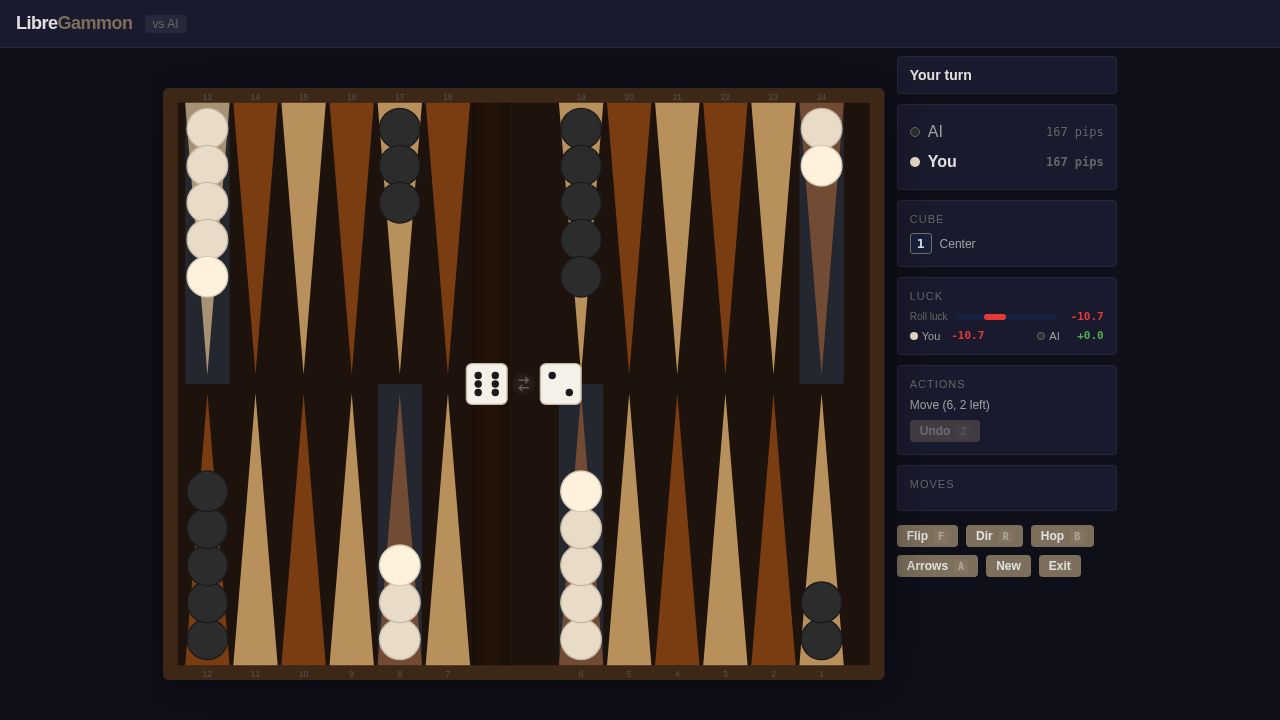
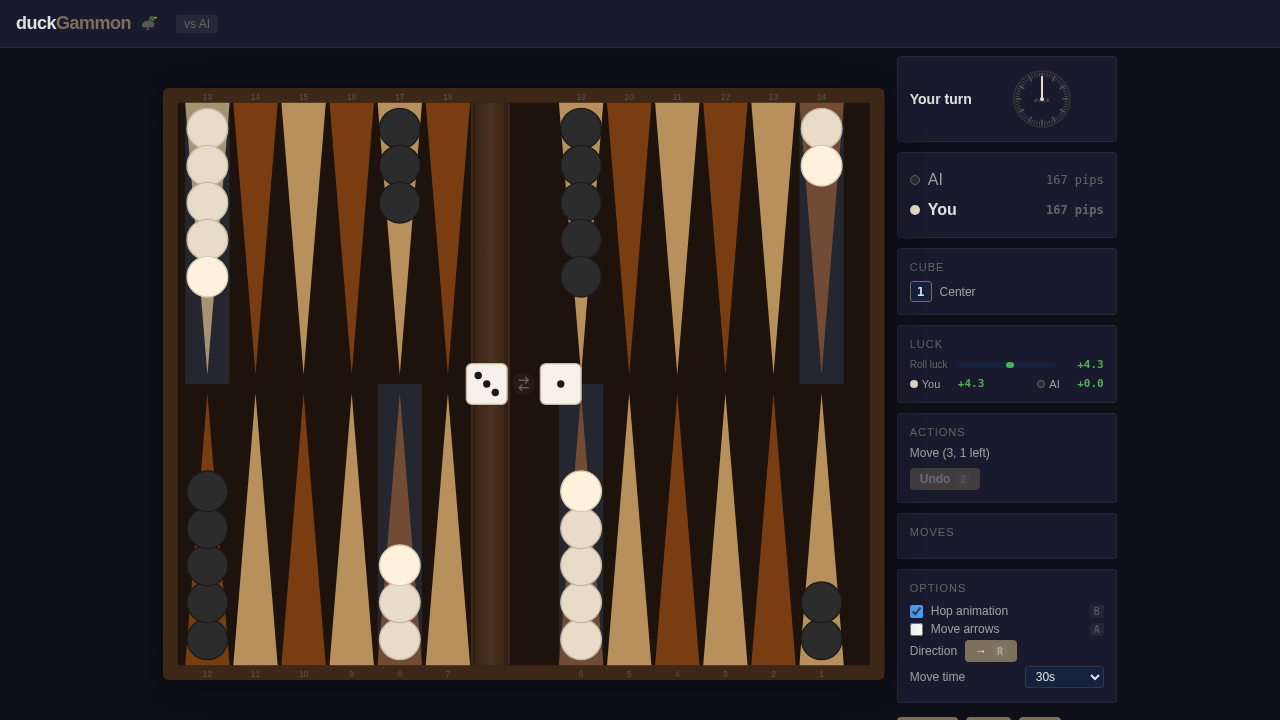
Add move time control with analogue Countdown clock
- Per-move countdown timer (default 30s, configurable 15s/30s/60s/untimed)
- UK Countdown-style analogue SVG clock in the turn indicator
- 60 tick marks, single sweeping hand, "duck" text in center
- Ticks and hand turn red when <=10s remaining
- Auto-confirms turn when time expires (with timeout buzz sound)
- Time control selector in Options panel, persisted in localStorage
- Clock only shows during human player's moving phase

diff --git a/src/ui/game/GameView.tsx b/src/ui/game/GameView.tsx
@@ -15,7 +15,8 @@ import Jail from '../board/Jail';
 import MoveAnimation, { triggerAnimation, triggerBunnyHop, clearAnimations, HOP_DURATION, ANIM_DURATION } from '../board/MoveAnimation';
 import OpponentArrows from '../board/OpponentArrows';
 import LuckMeter, { type LuckEntry } from '../board/LuckMeter';
-import { playDiceRoll, playCapture, playJailEscape, playVictory, playDefeat } from '../audio/sounds';
+import CountdownClock from '../board/CountdownClock';
+import { playDiceRoll, playCapture, playJailEscape, playVictory, playDefeat, playTimeout } from '../audio/sounds';
 
 interface TurnRecord {
   ply: number;
@@ -63,14 +64,22 @@ const GameView: Component<{ onExit: () => void; mode: GameMode; devPreset?: DevP
   const [arrowFading, setArrowFading] = createSignal(false);
   const [arrowsEnabled, setArrowsEnabled] = createSignal(false);
   const [historyIndex, setHistoryIndex] = createSignal<number | null>(null);
+  const [timePerMove, setTimePerMove] = createSignal<number | null>(
+    typeof localStorage !== 'undefined' ? (() => {
+      const v = localStorage.getItem('bg-time');
+      return v === 'none' ? null : Number(v) || 30;
+    })() : 30
+  );
+  const [timeRemaining, setTimeRemaining] = createSignal<number | null>(null);
   let initialBoard = [...initState.board];
   let initialWhiteOff = initState.whiteOff;
   let initialBlackOff = initState.blackOff;
 
-  // Persist direction
+  // Persist settings
   createEffect(() => {
     if (typeof localStorage !== 'undefined') {
       localStorage.setItem('bg-direction', direction());
+      localStorage.setItem('bg-time', timePerMove() === null ? 'none' : String(timePerMove()));
     }
   });
 
@@ -726,6 +735,36 @@ const GameView: Component<{ onExit: () => void; mode: GameMode; devPreset?: DevP
     }
   });
 
+  // Move timer — countdown during 'moving' phase
+  createEffect(() => {
+    const s = currentState();
+    const limit = timePerMove();
+    if (s.phase === 'moving' && !isAiTurn() && !isReviewing() && limit !== null) {
+      setTimeRemaining(limit);
+      const interval = setInterval(() => {
+        setTimeRemaining(prev => {
+          if (prev === null || prev <= 0) return 0;
+          return prev - 1;
+        });
+      }, 1000);
+      onCleanup(() => clearInterval(interval));
+    } else {
+      setTimeRemaining(null);
+    }
+  });
+
+  // Timeout — auto-confirm when time expires
+  createEffect(() => {
+    if (timeRemaining() === 0 && currentState().phase === 'moving' && !isAiTurn()) {
+      playTimeout();
+      const s = currentState();
+      const newState = confirmTurn(s);
+      recordTurn(s, newState);
+      setState(newState);
+      setSelectedPoint(null);
+    }
+  });
+
   // Scroll highlighted move into view
   createEffect(() => {
     const idx = historyIndex();
@@ -815,6 +854,9 @@ const GameView: Component<{ onExit: () => void; mode: GameMode; devPreset?: DevP
               <span class="dot" />
               <span class="dot" />
             </div>
+          </Show>
+          <Show when={timeRemaining() !== null}>
+            <CountdownClock remaining={timeRemaining()!} total={timePerMove()!} />
           </Show>
         </div>
 
@@ -925,6 +967,21 @@ const GameView: Component<{ onExit: () => void; mode: GameMode; devPreset?: DevP
             <button class="btn btn-small" onClick={() => setDirection(d => d === 'right' ? 'left' : 'right')}>
               {direction() === 'right' ? '\u2192' : '\u2190'} <span class="shortcut-hint">R</span>
             </button>
+          </label>
+          <label class="option-row">
+            <span>Move time</span>
+            <select
+              value={timePerMove() === null ? 'none' : String(timePerMove())}
+              onChange={(e) => {
+                const v = e.currentTarget.value;
+                setTimePerMove(v === 'none' ? null : Number(v));
+              }}
+            >
+              <option value="15">15s</option>
+              <option value="30">30s</option>
+              <option value="60">60s</option>
+              <option value="none">Untimed</option>
+            </select>
           </label>
         </div>
 

diff --git a/src/ui/board/CountdownClock.tsx b/src/ui/board/CountdownClock.tsx
@@ -1,0 +1,106 @@
+import { Component, For } from 'solid-js';
+
+interface CountdownClockProps {
+  remaining: number;
+  total: number;
+}
+
+const SIZE = 64;
+const CX = SIZE / 2;
+const CY = SIZE / 2;
+const R = 26;
+
+const CountdownClock: Component<CountdownClockProps> = (props) => {
+  const elapsed = () => props.total - props.remaining;
+  const angle = () => (elapsed() / props.total) * 360;
+  const danger = () => props.remaining <= 10;
+
+  // Hand endpoint
+  const handAngle = () => (angle() - 90) * (Math.PI / 180);
+  const handX = () => CX + Math.cos(handAngle()) * (R - 4);
+  const handY = () => CY + Math.sin(handAngle()) * (R - 4);
+
+  // Danger arc (swept region when <=10s left)
+  const dangerStartAngle = () => {
+    const dangerStart = Math.max(0, props.total - 10);
+    return ((dangerStart / props.total) * 360 - 90) * (Math.PI / 180);
+  };
+  const dangerEndAngle = () => (angle() - 90) * (Math.PI / 180);
+
+  function arcPath(startA: number, endA: number, r: number): string {
+    const x1 = CX + Math.cos(startA) * r;
+    const y1 = CY + Math.sin(startA) * r;
+    const x2 = CX + Math.cos(endA) * r;
+    const y2 = CY + Math.sin(endA) * r;
+    const large = (endA - startA) > Math.PI ? 1 : 0;
+    return `M ${x1} ${y1} A ${r} ${r} 0 ${large} 1 ${x2} ${y2}`;
+  }
+
+  return (
+    <svg viewBox={`0 0 ${SIZE} ${SIZE}`} width={SIZE} height={SIZE} style={{ display: 'block', margin: '0 auto' }}>
+      {/* Dial background */}
+      <circle cx={CX} cy={CY} r={R + 2} fill="#1a1a2e" stroke="#333" stroke-width={1.5} />
+
+      {/* Tick marks */}
+      <For each={Array.from({ length: 60 }, (_, i) => i)}>
+        {(i) => {
+          const a = ((i / 60) * 360 - 90) * (Math.PI / 180);
+          const tickSec = (i / 60) * props.total;
+          const isInDanger = danger() && tickSec >= (props.total - 10) && tickSec <= elapsed();
+          const isMajor = i % 5 === 0;
+          const outerR = R;
+          const innerR = isMajor ? R - 5 : R - 3;
+          return (
+            <line
+              x1={CX + Math.cos(a) * innerR}
+              y1={CY + Math.sin(a) * innerR}
+              x2={CX + Math.cos(a) * outerR}
+              y2={CY + Math.sin(a) * outerR}
+              stroke={isInDanger ? '#e53935' : '#555'}
+              stroke-width={isMajor ? 1.5 : 0.8}
+              stroke-linecap="round"
+            />
+          );
+        }}
+      </For>
+
+      {/* Danger arc */}
+      {danger() && elapsed() > (props.total - 10) && (
+        <path
+          d={arcPath(dangerStartAngle(), dangerEndAngle(), R - 1)}
+          fill="none"
+          stroke="#e53935"
+          stroke-width={3}
+          stroke-linecap="round"
+          opacity={0.4}
+        />
+      )}
+
+      {/* "duck" text */}
+      <text
+        x={CX} y={CY + 1}
+        text-anchor="middle"
+        dominant-baseline="middle"
+        font-size="6"
+        font-weight="600"
+        fill="#555"
+        style={{ "pointer-events": "none", "letter-spacing": "0.5px" }}
+      >duck</text>
+
+      {/* Hand */}
+      <line
+        x1={CX} y1={CY}
+        x2={handX()} y2={handY()}
+        stroke={danger() ? '#e53935' : '#e8dcc8'}
+        stroke-width={2}
+        stroke-linecap="round"
+        style={{ transition: 'x2 1s linear, y2 1s linear' }}
+      />
+
+      {/* Center dot */}
+      <circle cx={CX} cy={CY} r={2} fill={danger() ? '#e53935' : '#e8dcc8'} />
+    </svg>
+  );
+};
+
+export default CountdownClock;

diff --git a/src/ui/styles/board.css b/src/ui/styles/board.css
@@ -864,6 +864,17 @@
   margin-left: auto;
 }
 
+.option-row select {
+  background: var(--bg-tertiary);
+  color: var(--text-primary);
+  border: 1px solid rgba(255,255,255,0.1);
+  border-radius: 3px;
+  padding: 2px 6px;
+  font-size: 12px;
+  margin-left: auto;
+  cursor: pointer;
+}
+
 /* ─── Active move in history ─── */
 .move-entry.active {
   background: rgba(74, 158, 255, 0.12);

diff --git a/src/ui/audio/sounds.ts b/src/ui/audio/sounds.ts
@@ -66,6 +66,12 @@ export function playDefeat() {
   setTimeout(() => tone(294, 0.5, 0.06), 400); // D4
 }
 
+/** Time expired buzz */
+export function playTimeout() {
+  tone(150, 0.3, 0.15);
+  setTimeout(() => tone(100, 0.4, 0.1), 150);
+}
+
 /** Rising chime for jail escape */
 export function playJailEscape() {
   const c = getCtx();
